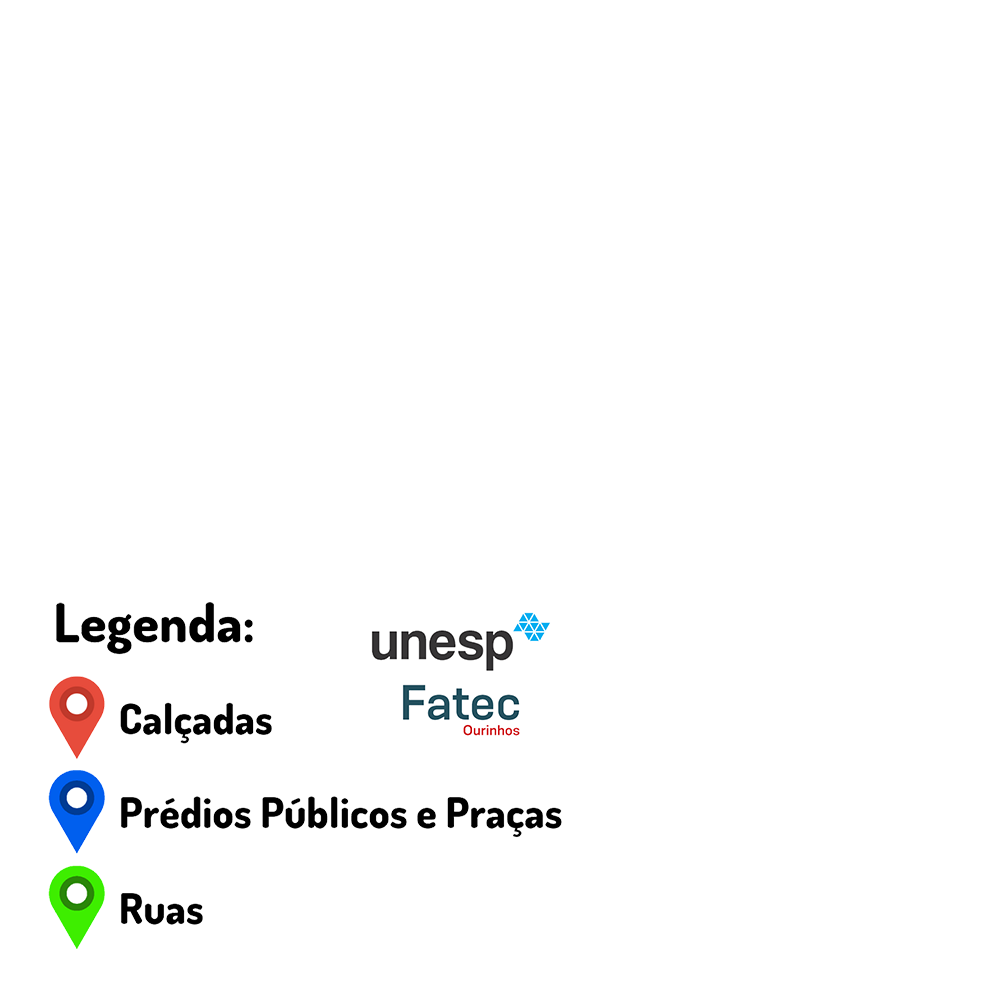
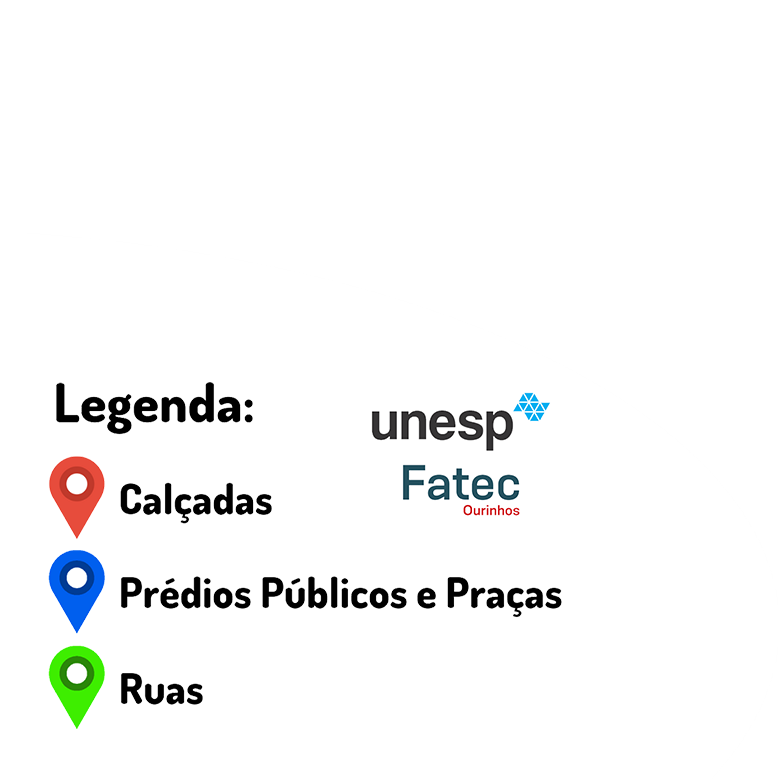
Ajustes Finais

Changed region(s): [[0.0308, 0.4929, 0.7394, 0.9551], [0.0616, 0.4929, 0.3389, 0.5546]]

diff --git a/acessaOurinhos/screens/ExibeImagemScreen.js b/acessaOurinhos/screens/ExibeImagemScreen.js
@@ -33,25 +33,28 @@ export default class ExibeImagemScreen extends React.Component {
                 <View style={styles.container}>
                     <ScrollView>
                         <Image
-                            style={{ width: SCREENWIDTH, height: SCREENHEIGHT/2, }}
+                            style={{ width: SCREENWIDTH, height: SCREENHEIGHT / 2, }}
                             source={{ uri: photo.uri }}
                         />
 
-                        <Button
-                            style={{ marginTop: 20, marginBottom: 20 }}
-                            disabled={this.state.isLoading}
-                            large
-                            title='Cancelar'
-                            onPress={() => this.props.navigation.navigate('Capture')}
-                        />
+                        <View style={{ marginTop: 20, marginLeft: 10, marginRight: 10 }}>
+                            <Button
+                                disabled={this.state.isLoading}
+                                large
+                                title='Cancelar'
+                                onPress={() => this.props.navigation.navigate('Capture')}
+                            />
+                        </View>
 
-                        <Button
-                            disabled={this.state.isLoading}
-                            large
-                            icon={{ name: 'save', type: 'font-awesome' }}
-                            title='Salvar'
-                            onPress={() => this.uploadImage(latitude, longitude, photo.uri)}
-                        />
+                        <View style={{ marginTop: 20, marginBottom: 20, marginLeft: 10, marginRight: 10 }}>
+                            <Button
+                                disabled={this.state.isLoading}
+                                large
+                                icon={{ name: 'save', type: 'font-awesome' }}
+                                title='Salvar'
+                                onPress={() => this.uploadImage(latitude, longitude, photo.uri)}
+                            />
+                        </View>
                     </ScrollView>
                 </View>
             );
@@ -59,7 +62,7 @@ export default class ExibeImagemScreen extends React.Component {
             return (
                 <View style={styles.container}>
                     <Image
-                        style={{ width: SCREENWIDTH, height: SCREENHEIGHT/2, }}
+                        style={{ width: SCREENWIDTH, height: SCREENHEIGHT / 2, }}
                         source={{ uri: photo.uri }}
                     />
                     <View style={{ flex: 1, padding: 20 }}>

diff --git a/acessaOurinhos/screens/MapScreen.js b/acessaOurinhos/screens/MapScreen.js
@@ -155,7 +155,7 @@ export default class MapScreen extends React.Component {
         }
       ]
     });
-    this.forceUpdate();
+    //this.forceUpdate();
     this.props.navigation.navigate('Capture', { latitude: e.nativeEvent.coordinate.latitude, longitude: e.nativeEvent.coordinate.longitude })
 
   }
@@ -223,8 +223,8 @@ export default class MapScreen extends React.Component {
                   place.problema == 'Calçadas' ?
                     <Image source={require('../assets/images/marker.png')} style={{ height: 35, width: 35 }} /> :
                     place.problema == 'Ruas' ?
-                      <Image source={require('../assets/images/marker-blue.png')} style={{ height: 35, width: 35 }} /> :
-                      <Image source={require('../assets/images/marker-green.png')} style={{ height: 35, width: 35 }} />
+                      <Image source={require('../assets/images/marker-green.png')} style={{ height: 35, width: 35 }} /> :
+                      <Image source={require('../assets/images/marker-blue.png')} style={{ height: 35, width: 35 }} />
                 }
 
               </MapView.Marker>
@@ -294,9 +294,9 @@ export default class MapScreen extends React.Component {
                 ))}
 
               </ScrollView> : <View><TouchableOpacity onPress={this.componentHideAndShow} >
-                <Text style={{ paddingTop: 10, color: 'red', textAlign: 'center', paddingBottom: 10, fontSize: 18, fontWeight: 'bold' }}>Ver Detalhes</Text>
+                <Text style={{ paddingTop: 10, color: 'red', textAlign: 'right', paddingBottom: 10, paddingRight:5,  fontSize: 18, fontWeight: 'bold' }}>Ver Detalhes</Text>
               </TouchableOpacity>
-                <Image source={require('../assets/images/legenda.png')} style={{ width: 55, height: 45.7, position: 'absolute', bottom: 0, }} />
+                <Image source={require('../assets/images/legenda.png')} style={{ width: SCREENWIDTH/2, height: SCREENWIDTH/2, position: 'absolute', bottom: 0, }} />
               </View>
 
           }

diff --git a/acessaOurinhos/screens/CaptureScreen.js b/acessaOurinhos/screens/CaptureScreen.js
@@ -63,13 +63,14 @@ export default class CaptureScreen extends React.Component {
                             }}>
                         </View>
                     </Camera>
+                    <View style={{marginLeft:10, marginRight: 10, marginBottom: 50}}>
                     <Button
-                        style={{ marginLeft: 50, marginRight: 50, marginBottom: 50 }}
                         large
                         icon={{ name: 'camera', type: 'font-awesome' }}
                         title='Capturar'
                         onPress={() => this.takePicture(latitude, longitude)}
                     />
+                    </View>
                 </View>
             );
         }

diff --git a/acessaOurinhos/screens/HomeScreen.js b/acessaOurinhos/screens/HomeScreen.js
@@ -46,6 +46,7 @@ export default class HomeScreen extends React.Component {
               title='Indicar uma Irregularidade'
               onPress={() => this.props.navigation.navigate('Mapa')}
             />
+            <View style={{height:10}}></View>
             <Button
               style={{ marginLeft: 50, marginRight: 50 }}
               large
@@ -95,7 +96,9 @@ const styles = StyleSheet.create({
   container: {
     flex: 1,
     backgroundColor: '#fff',
-    marginTop: 30
+    marginTop: 30,
+    marginLeft: 10,
+    marginRight: 10,
   },
   developmentModeText: {
     marginBottom: 20,
